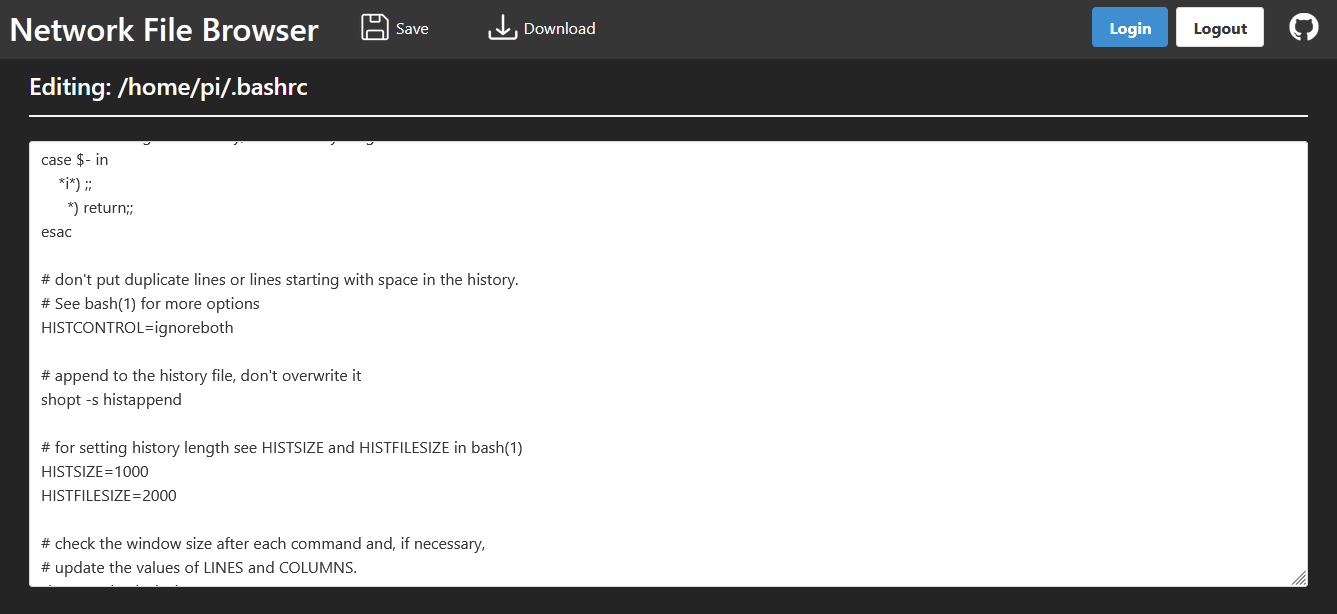
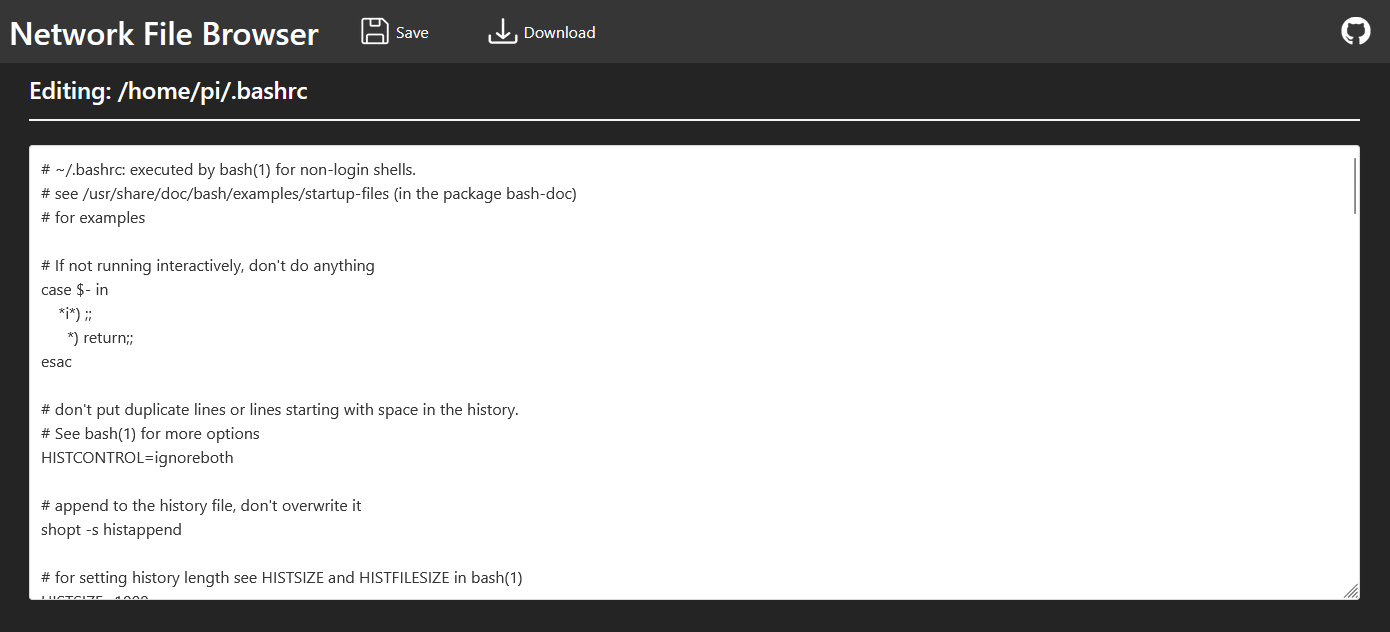
Removed references to user auth

diff --git a/views/header/header.html b/views/header/header.html
@@ -41,16 +41,6 @@
         </div>
         <div class="navbar-end">
             <div class="navbar-item">
-                <div class="buttons">
-                    <a class="button is-info">
-                        <strong>Login</strong>
-                    </a>
-                    <a class="button">
-                        <strong>Logout</strong>
-                    </a>
-                </div>
-            </div>
-            <div class="navbar-item">
                 <a href="https://github.com/odddollar/File-browser" target="_blank">
                     <img class="image is-32x32" src="/static/github.png" alt="Github">
                 </a>

diff --git a/README.md b/README.md
@@ -17,7 +17,6 @@ View and interact with a file system over a network with Network File Browser. A
 - Edit files as text
 - **(Coming soon)** Rename files and folders
 - **(Coming soon)** Delete files and folders
-- **(Coming soon)** User authentication
 
 ## Usage
 
